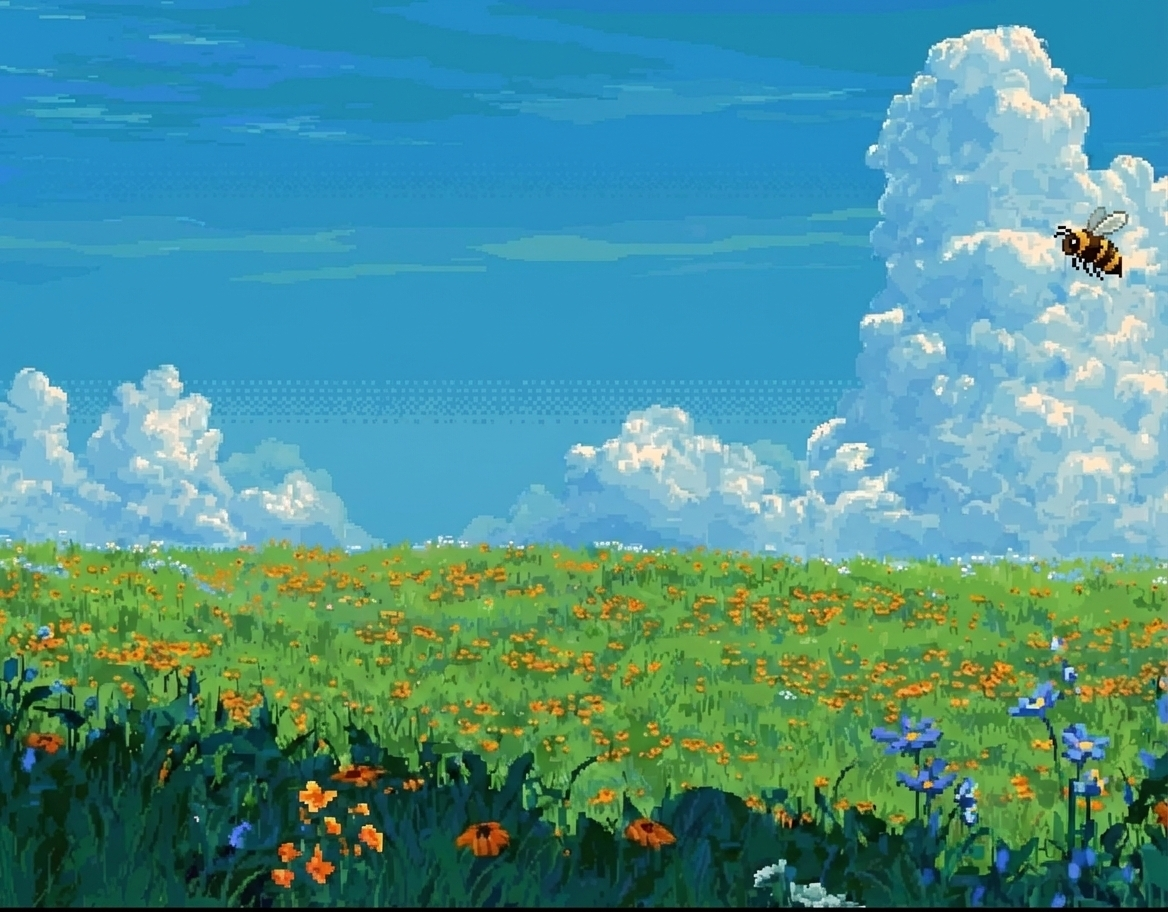
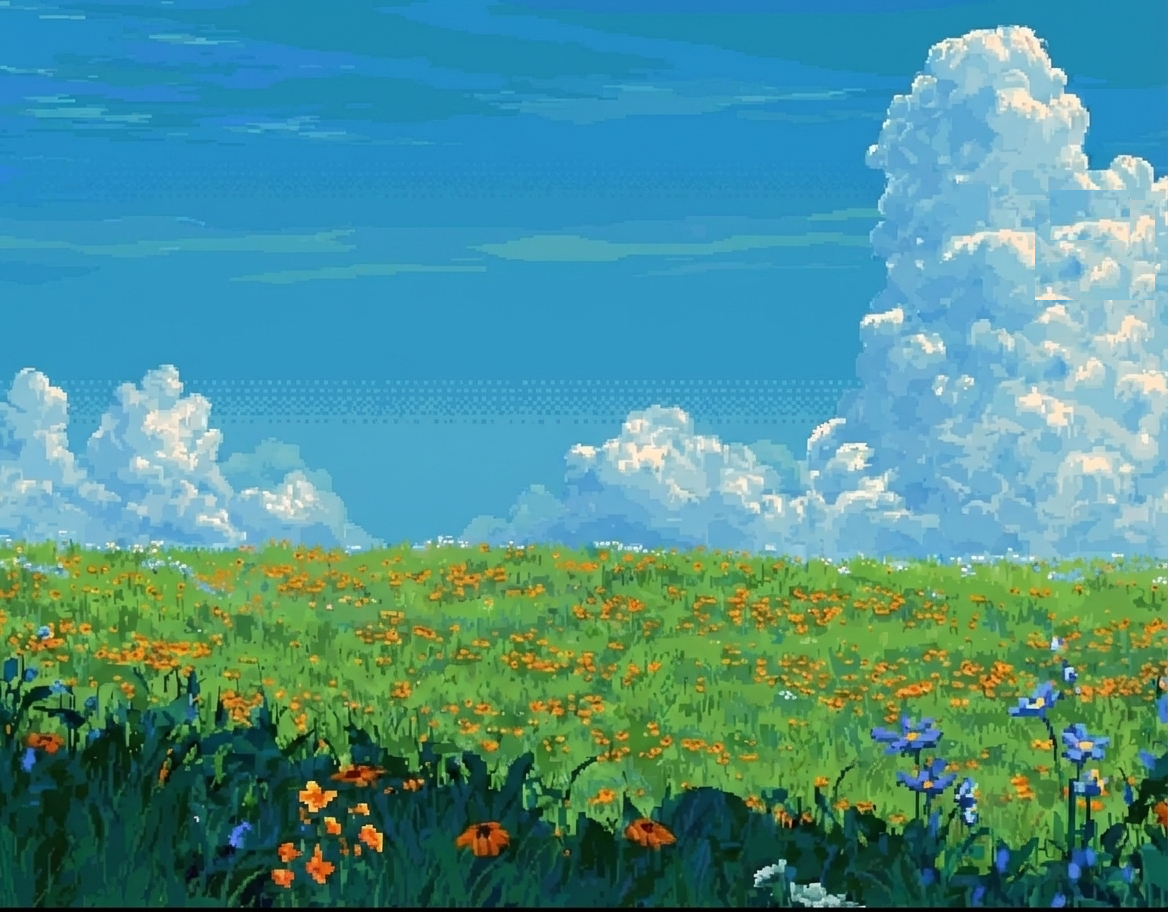
Fix: remove bee from bg, crop Velly text from dragon, larger dragon, fix tap text hiding

Changed region(s): [[0.863, 0.1842, 1.0, 0.3377]]

diff --git a/app/page.tsx b/app/page.tsx
@@ -128,10 +128,12 @@ export default function Home() {
           <AnimatePresence>
             {stage === "idle" && (
               <motion.p
+                key="tap-text"
                 className="mt-8 text-white/80 text-lg font-light tracking-wider drop-shadow-md"
+                initial={{ opacity: 0 }}
                 animate={{ opacity: [0.5, 1, 0.5] }}
                 transition={{ duration: 2, ease: "easeInOut", repeat: Infinity }}
-                exit={{ opacity: 0 }}
+                exit={{ opacity: 0, transition: { duration: 0.3 } }}
               >
                 Tap the egg
               </motion.p>

diff --git a/components/creature.tsx b/components/creature.tsx
@@ -24,8 +24,8 @@ export default function Creature({ visible }: { visible: boolean }) {
         >
           <div
             style={{
-              width: 220,
-              height: 220,
+              width: 320,
+              height: 320,
               backgroundImage: "url(/assets/dragon-clean.png)",
               backgroundSize: "contain",
               backgroundRepeat: "no-repeat",
